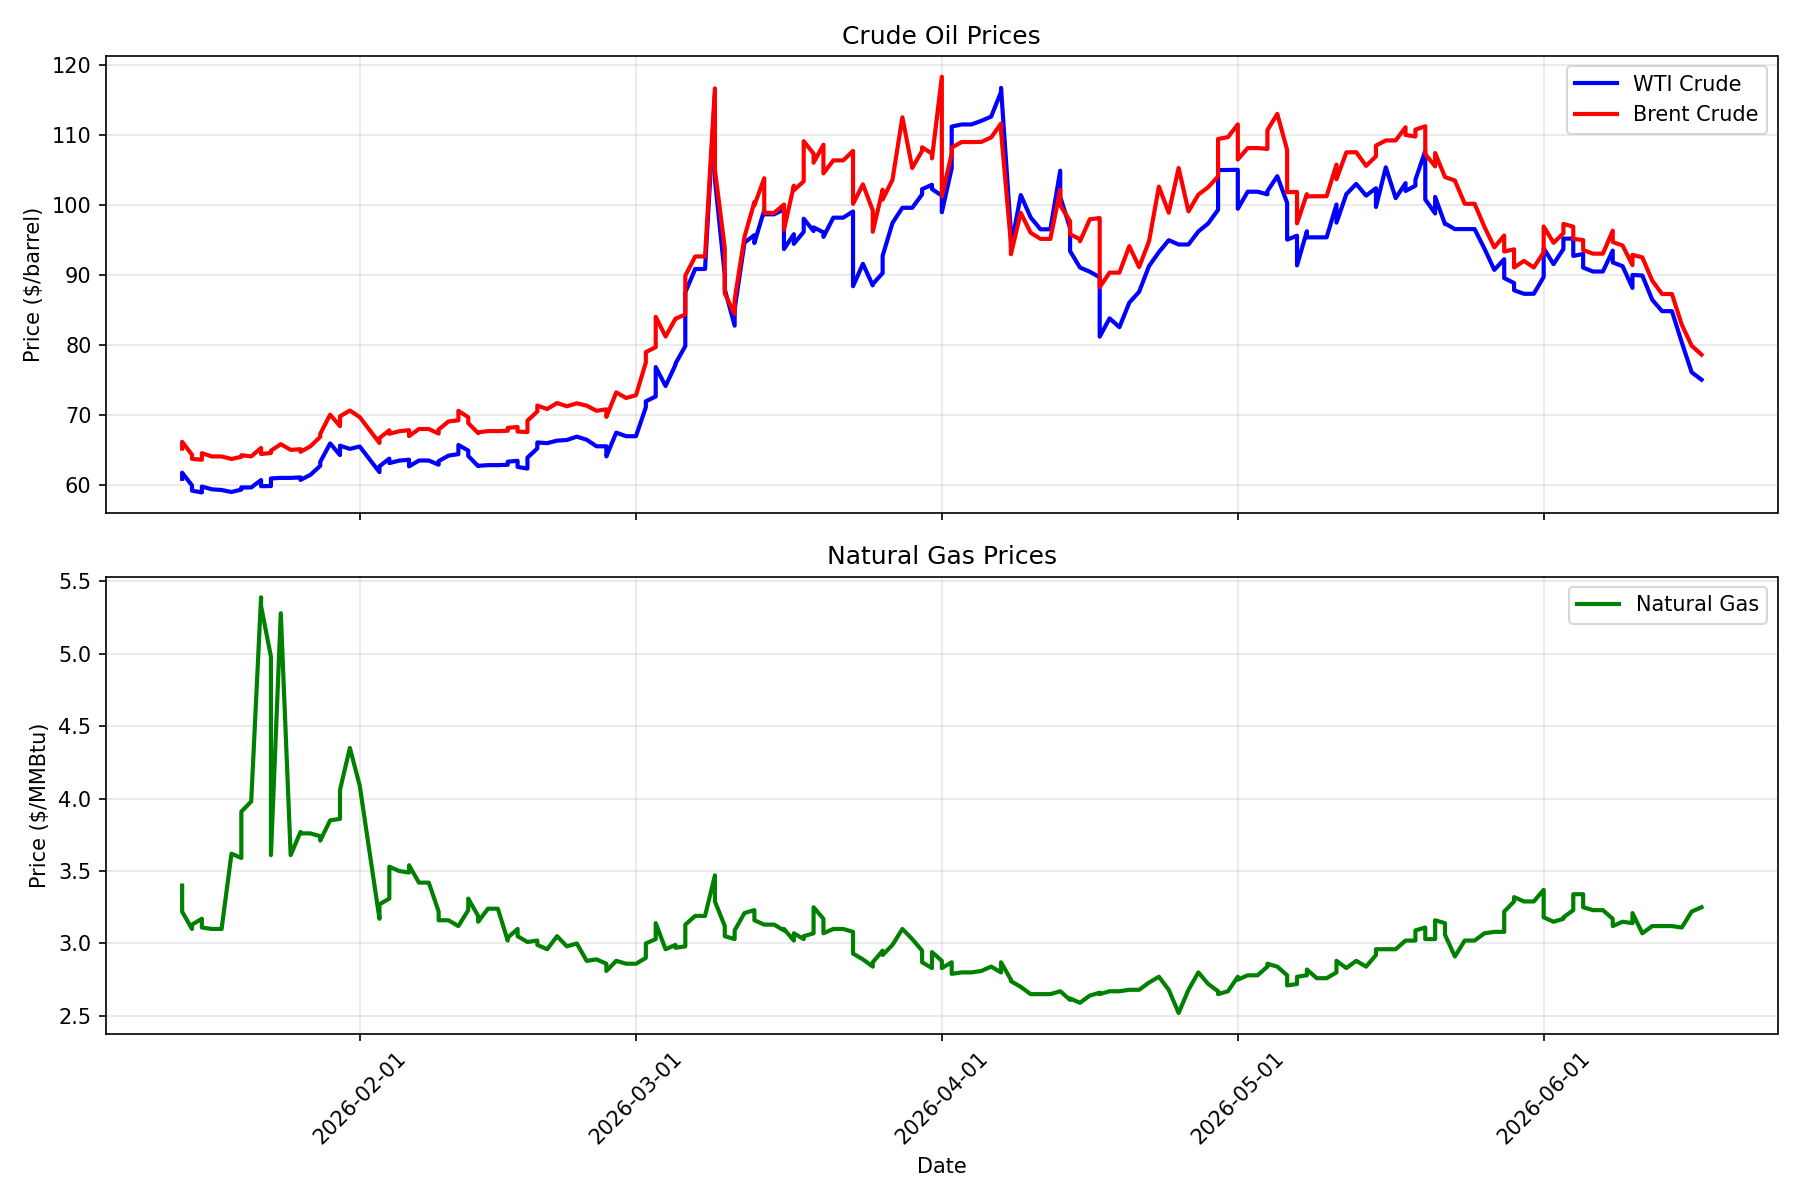
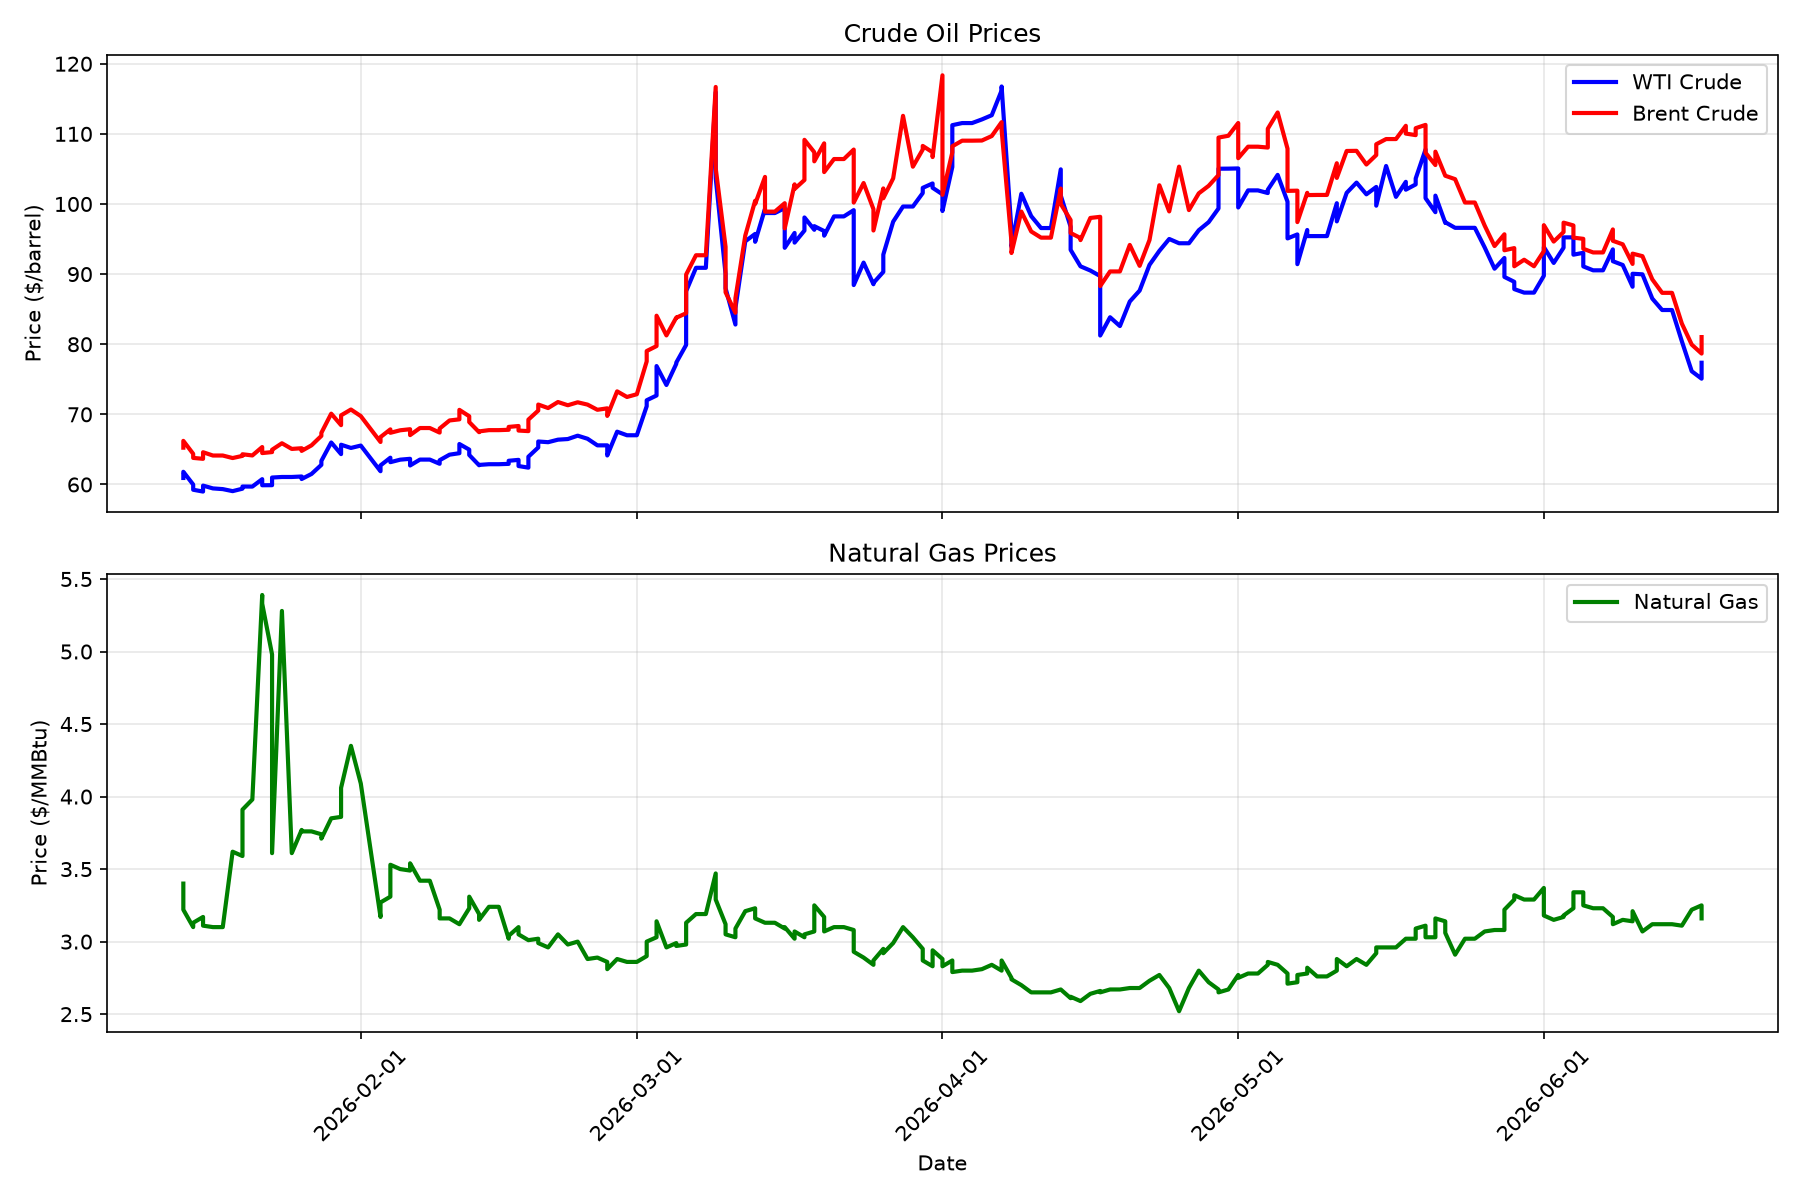
Daily price update: 2026-06-17

diff --git a/README.md b/README.md
@@ -8,23 +8,23 @@ Automated daily tracking of chemical commodity prices and chemical company stock
 
 | Commodity | Price | Change (24h) | Unit |
 |-----------|-------|--------------|------|
-| WTI Crude Oil | $75.09 | -0.96 (-1.26%) | $/barrel |
-| Brent Crude Oil | $78.67 | -0.29 (-0.37%) | $/barrel |
-| Natural Gas | $3.25 | +0.01 (+0.28%) | $/MMBtu |
-| Heating Oil | $3.15 | -0.02 (-0.78%) | $/gallon |
+| WTI Crude Oil | $77.36 | +1.31 (+1.72%) | $/barrel |
+| Brent Crude Oil | $81.02 | +2.06 (+2.61%) | $/barrel |
+| Natural Gas | $3.16 | -0.08 (-2.56%) | $/MMBtu |
+| Heating Oil | $3.20 | +0.03 (+0.88%) | $/gallon |
 
 ### Chemical Company Stocks
 
 | Company | Ticker | Price | Change (24h) |
 |---------|--------|-------|--------------|
-| Dow Inc. | DOW | $nan | +nan (+nan%) |
-| LyondellBasell | LYB | $62.59 | -0.71 (-1.12%) |
-| DuPont | DD | $48.04 | -0.50 (-1.03%) |
-| Air Products | APD | $280.48 | -2.48 (-0.88%) |
-| Linde | LIN | $518.17 | -3.31 (-0.63%) |
-| Eastman Chemical | EMN | $73.28 | -2.00 (-2.66%) |
-| Celanese | CE | $51.93 | -1.84 (-3.42%) |
-| Huntsman | HUN | $13.18 | -2.71 (-17.05%) |
+| Dow Inc. | DOW | $33.50 | +0.54 (+1.64%) |
+| LyondellBasell | LYB | $63.53 | +0.94 (+1.49%) |
+| DuPont | DD | $48.86 | +0.82 (+1.71%) |
+| Air Products | APD | $280.89 | +0.41 (+0.15%) |
+| Linde | LIN | $516.20 | -1.97 (-0.38%) |
+| Eastman Chemical | EMN | $74.43 | +1.15 (+1.57%) |
+| Celanese | CE | $52.64 | +0.71 (+1.37%) |
+| Huntsman | HUN | $13.30 | +0.11 (+0.87%) |
 
 ## Data Sources
 

diff --git a/logs/update_log.md b/logs/update_log.md
@@ -258,3 +258,4 @@ Daily updates to the chemical engineering data repository.
 - **2026-06-15 15:56:12**: Updated 4 energy prices, 8 stocks, 0 FRED series
 - **2026-06-16 15:37:06**: Updated 4 energy prices, 8 stocks, 0 FRED series
 - **2026-06-17 00:30:56**: Updated 4 energy prices, 8 stocks, 0 FRED series
+- **2026-06-17 15:02:22**: Updated 4 energy prices, 8 stocks, 0 FRED series
